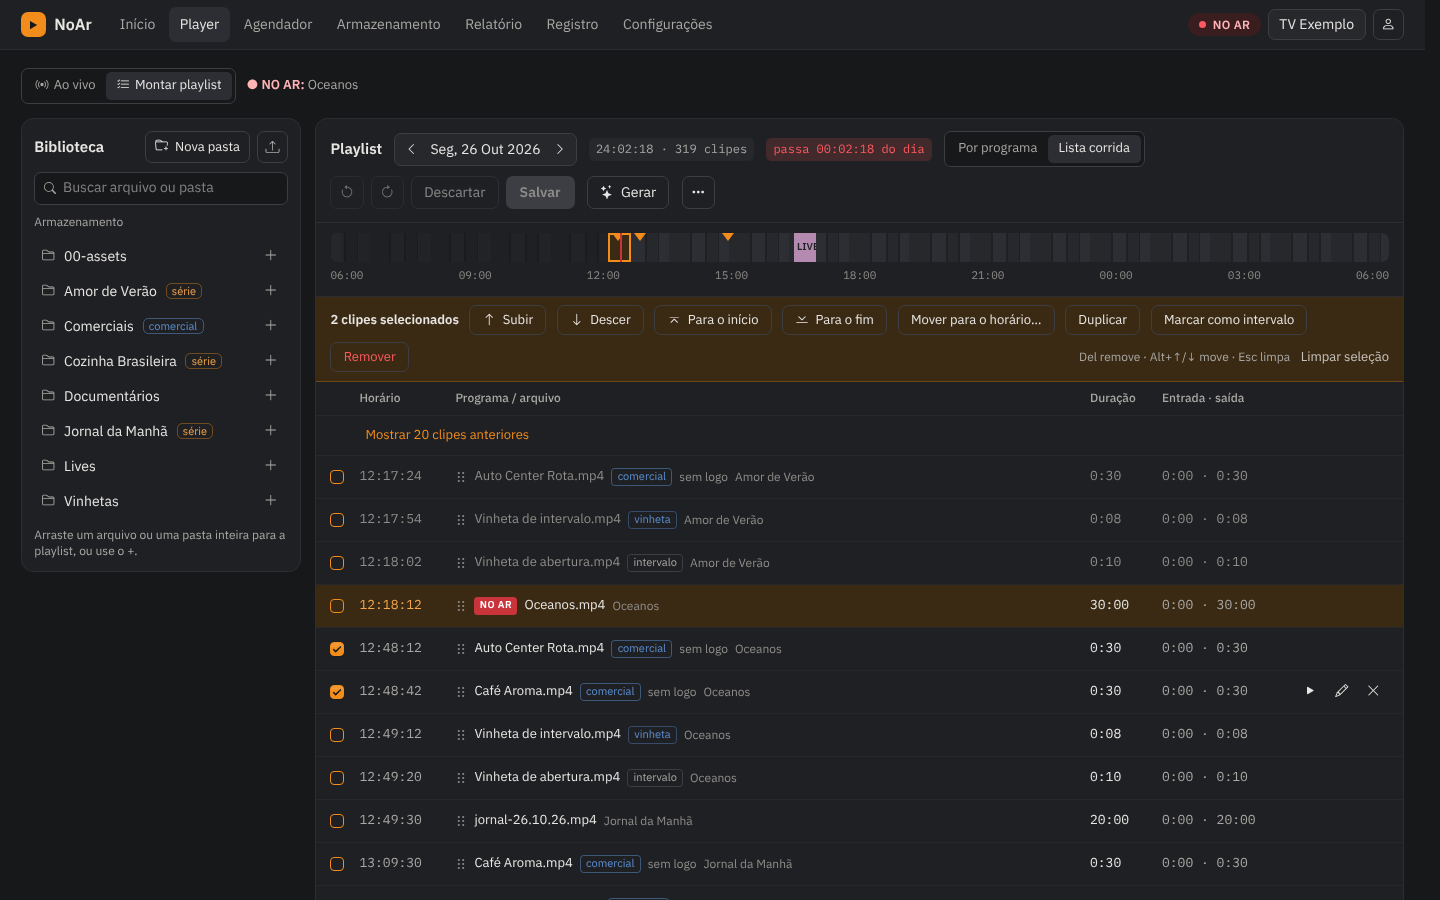
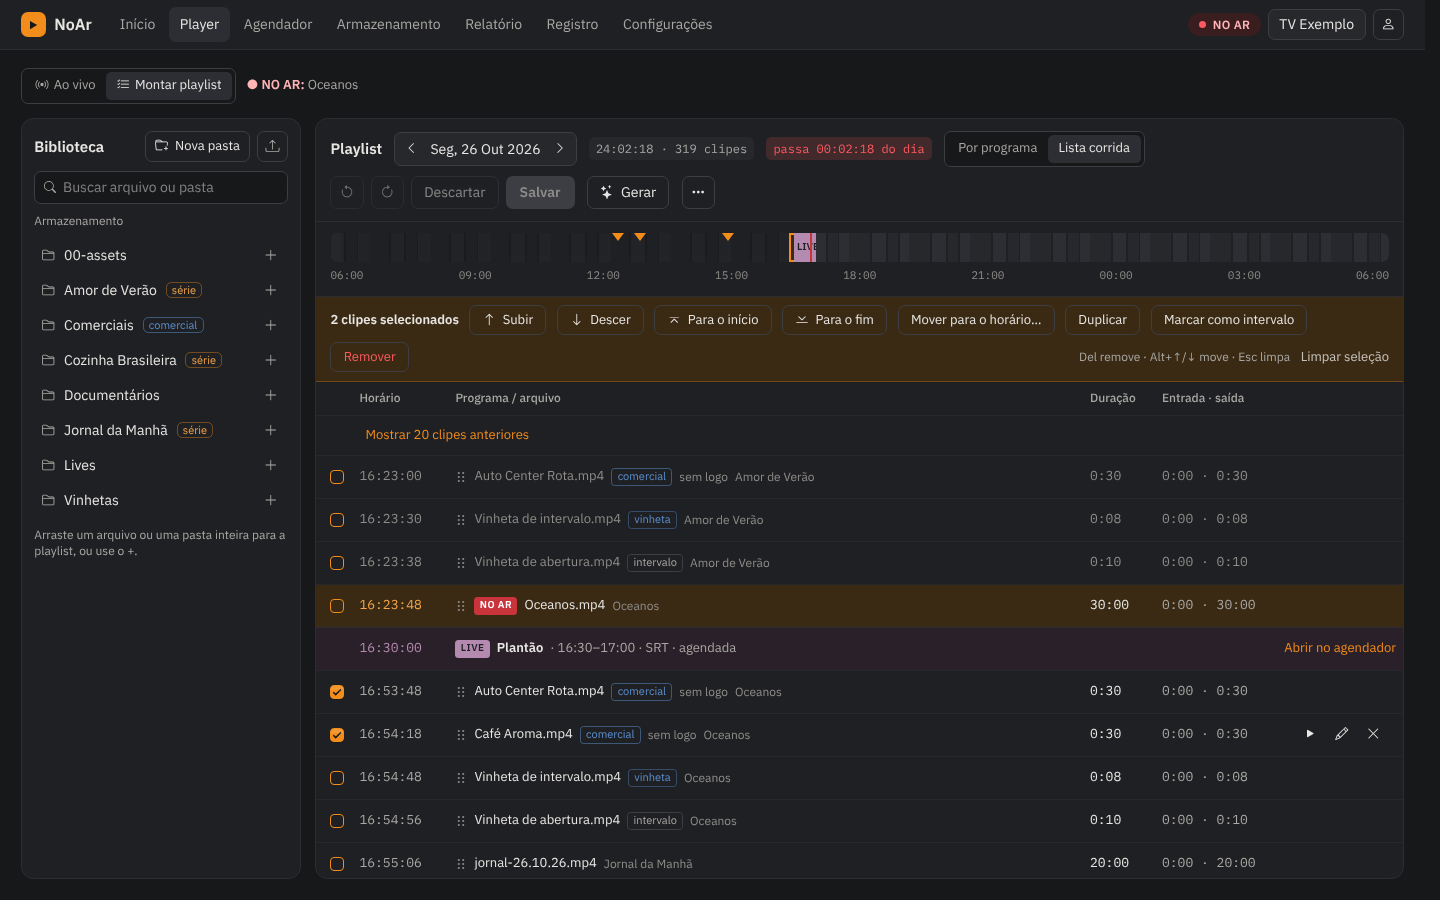
README and screenshots for the new Player views, upload conversion and the SCTE-35 key; notes for the next release
Claude-Session: https://claude.ai/code/session_01PPQm4oLktuepej8dFcYFzp

diff --git a/README.md b/README.md
@@ -14,11 +14,12 @@ them it adds:
 - **Player**: live preview straight from the output (about a second behind
   the air, for HLS, RTMP or SRT), in a **light** quality for slow connections
   or the output's own; a clock with what is on air and what comes next;
-  transport controls; and the day's playlist grouped by program the way the
-  guide names it. A **build view** puts the library and the list on top:
-  add files or a whole program folder (its next episode, every video in
-  order, or the ones you pick) at the end, after the selection or at a time,
-  with undo, keys and how much of the day is still to fill.
+  and transport controls. A **build view** shows the library and the day's
+  playlist, grouped by program the way the guide names it, filling the
+  screen: only the list scrolls. Add files or a whole program folder (its
+  next episode, every video in order, or the ones you pick) at the end,
+  after the selection or at a time, with undo, keys and how much of the day
+  is still to fill.
 - **Output that keeps going**: an SRT, RTMP or UDP destination that is down
   never stops the channel. NoAr reconnects by itself, the preview keeps
   playing, and the Player says whether the output is sending, waiting for a
@@ -29,7 +30,9 @@ them it adds:
   output ([docs](docs/scheduler.md)).
 - **Storage**: program folders with their guide sheet edited in the browser,
   poster and wide image, series with one sheet for every episode, and uploads
-  that keep going in the background while you work on other pages.
+  that keep going in the background while you work on other pages. Uploaded
+  videos can be **converted to the output format** once, so the playout does
+  less on air ([docs](docs/uploads.md)).
 - **Commercials folders**: mark a folder once and everything in it plays as a
   commercial in playlists and scheduled breaks: out of the guide and without
   the logo ([docs](docs/commercials.md)).
@@ -42,7 +45,9 @@ them it adds:
   breaks marked inside a programme video (where it leaves and comes back,
   like the logo) are signalled in the SRT or UDP output for FAST platforms
   and ad servers to replace, frame-accurately and announced ahead, with the
-  next break and the one on air shown in the Player ([docs](docs/ad_breaks.md)).
+  next break and the one on air shown in the Player. Encoders and automation
+  mark breaks with a key, like the logo's, with a tutorial in the settings
+  ([docs](docs/ad_breaks.md)).
 - **Report**: what aired, with the actual times and how each item ended, and
   what is still to come, for a day or a period; narrowed to one commercial,
   program, live or event when needed, and downloaded as a PDF or a
@@ -75,8 +80,9 @@ how each video will show up in the guide.
 
 ![Storage](docs/images/storage.png)
 
-**Building a playlist**: the build view, with the library next to the list,
-undo, and what is still missing to fill the day.
+**Building a playlist**: the build view fills the screen; the library and
+the list header stay put while the list scrolls. Two clips selected, with
+what can be done to them, and how far the day runs over.
 
 ![Building a playlist](docs/images/builder.png)
 

diff --git a/CHANGELOG.md b/CHANGELOG.md
@@ -11,6 +11,38 @@ one is tagged.
 
 ## [Unreleased]
 
+### Added
+
+- **Convert uploaded videos to the output format**: with the new switch in
+  Settings › Playlist and storage, each uploaded video is converted once to
+  the output's size and frame rate, high-quality H.264 and 48 kHz AAC, so
+  the playout no longer scales it or changes its frame rate on air, and
+  damaged files are rewritten from what decodes. Storage shows the progress
+  of each one ([docs](docs/uploads.md)).
+- **SCTE-35 breaks from encoders and automation**: a key, like the logo
+  key, lets vMix, OBS, Companion or a script mark and cancel breaks at
+  `/scte35/{id}/break` and `/scte35/{id}/cancel` without logging in.
+  Settings › Ad breaks has a tutorial with the addresses ready to copy
+  ([docs](docs/ad_breaks.md#from-an-encoder-or-an-automation-with-the-scte-35-key)).
+
+### Changed
+
+- The Player's **Live** view shows only the air: preview, clock and
+  controls. The library and the playlist are in **Build the playlist**,
+  where they fill the screen: the library and the playlist header (date,
+  undo, Save) stay put and only the list scrolls.
+
+### Fixed
+
+- The light Player preview flooded the channel log with h264 errors
+  ("non-existing PPS 0 referenced", "Missing reference picture", "no
+  frame!"). Joining the stream mid-way, its analysis often ended before the
+  first key frame of a 1080p stream, so it failed and started again every
+  second. It now waits for a key frame, retries less often when it fails,
+  and keeps its own messages out of the channel log.
+- After a seek, or when joining a live source, the playout waits for a key
+  frame instead of decoding pictures whose references never came.
+
 ## [1.2.0] - 2026-10-26
 
 ### Added
